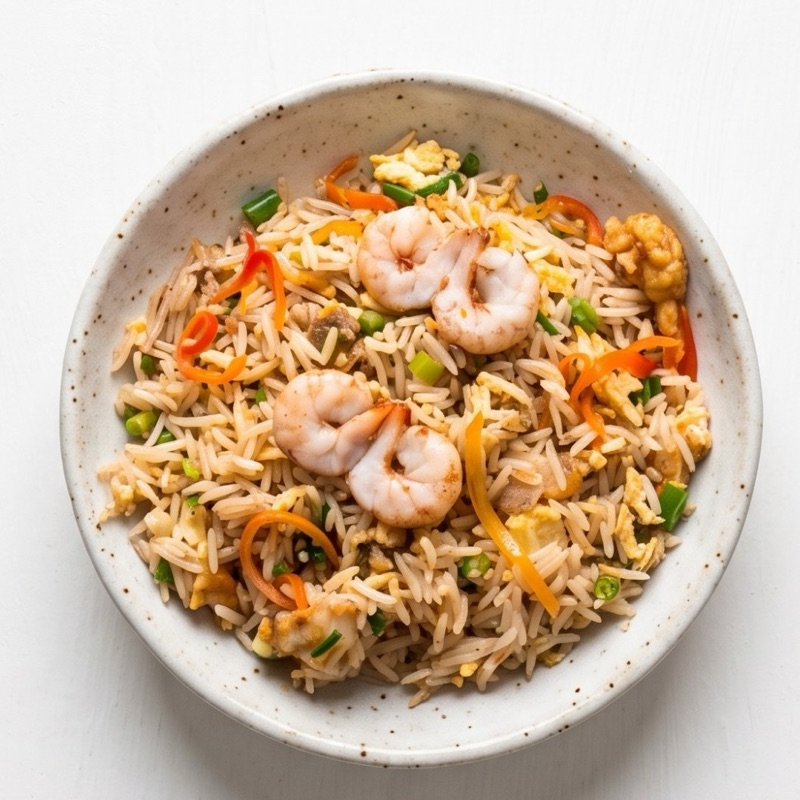
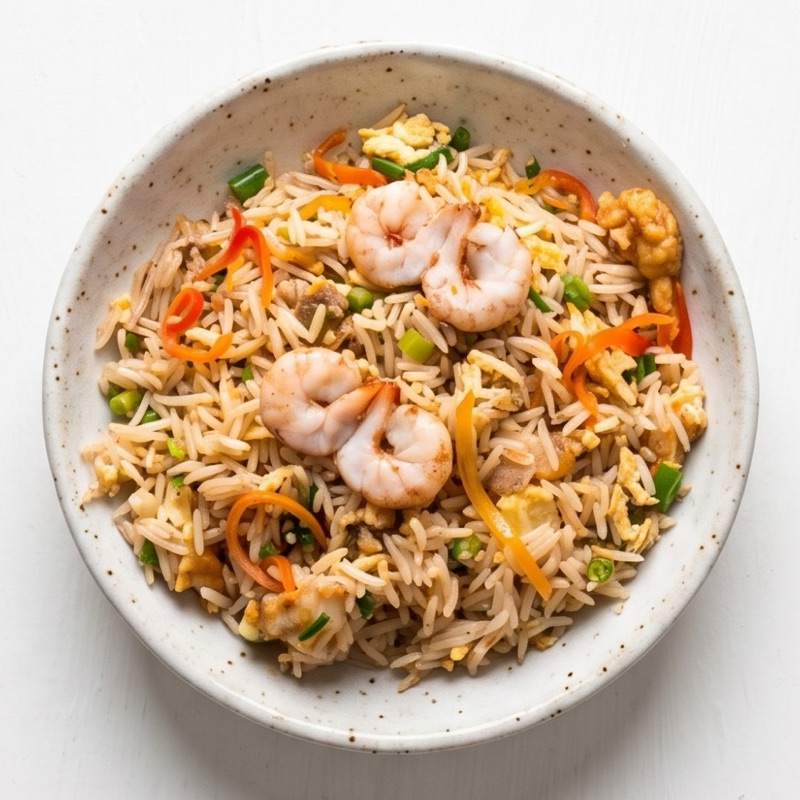
fix: plato centrado en la celda central (solo gira con el scroll)

diff --git a/index.html b/index.html
@@ -36,7 +36,7 @@
   <link rel="preconnect" href="https://unpkg.com" crossorigin>
   <link rel="preload" href="assets/fonts/GoogleSansFlex_24pt-Light-latin.woff2" as="font" type="font/woff2" crossorigin>
   <link rel="preload" href="assets/img/platter.jpg" as="image" fetchpriority="high">
-  <link rel="stylesheet" href="styles.css?v=4">
+  <link rel="stylesheet" href="styles.css?v=7">
   <script type="application/ld+json">
 {
  "@context": "https://schema.org",
@@ -1831,7 +1831,7 @@
 
     <!-- 5 · Featured kitchens (3 × 3 grid, travelling plate behind) -->
     <section class="featured" id="featured" aria-labelledby="featured-heading">
-      <div class="featured__plate" aria-hidden="true"><svg class="featured__ring" viewBox="0 0 200 200"><g fill="none" stroke="currentColor" stroke-width="0.6"><circle cx="100" cy="100" r="99"/><circle cx="100" cy="100" r="80"/><polygon points="199.0,100.0 173.9,130.6 170.0,170.0 130.6,173.9 100.0,199.0 69.4,173.9 30.0,170.0 26.1,130.6 1.0,100.0 26.1,69.4 30.0,30.0 69.4,26.1 100.0,1.0 130.6,26.1 170.0,30.0 173.9,69.4"/><polygon points="197.1,119.3 166.5,144.4 155.0,182.3 115.6,178.5 80.7,197.1 55.6,166.5 17.7,155.0 21.5,115.6 2.9,80.7 33.5,55.6 45.0,17.7 84.4,21.5 119.3,2.9 144.4,33.5 182.3,45.0 178.5,84.4"/></g></svg><div class="featured__dish"><img src="assets/img/fried-rice.jpg" alt="" width="800" height="800" loading="lazy"></div></div>
+      <div class="featured__plate" aria-hidden="true"><svg class="featured__ring" viewBox="0 0 200 200"><g fill="none" stroke="currentColor" stroke-width="0.6"><circle cx="100" cy="100" r="99"/><circle cx="100" cy="100" r="80"/><polygon points="199.0,100.0 173.9,130.6 170.0,170.0 130.6,173.9 100.0,199.0 69.4,173.9 30.0,170.0 26.1,130.6 1.0,100.0 26.1,69.4 30.0,30.0 69.4,26.1 100.0,1.0 130.6,26.1 170.0,30.0 173.9,69.4"/><polygon points="197.1,119.3 166.5,144.4 155.0,182.3 115.6,178.5 80.7,197.1 55.6,166.5 17.7,155.0 21.5,115.6 2.9,80.7 33.5,55.6 45.0,17.7 84.4,21.5 119.3,2.9 144.4,33.5 182.3,45.0 178.5,84.4"/></g></svg><div class="featured__dish"><img src="assets/img/fried-rice.jpg?v=7" alt="" width="800" height="800" loading="lazy"></div></div>
       <h2 class="eyebrow featured__eyebrow reveal-up" id="featured-heading">Featured delicacies</h2>
       <p class="featured__intro reveal-up" style="--d: 1">For the love of delicious food. Six kitchens’ worth of favourites under one roof — from the clay oven to the wok, with something for every appetite.</p>
       <div class="featured__grid">
@@ -2057,6 +2057,6 @@
   <script src="https://cdnjs.cloudflare.com/ajax/libs/gsap/3.12.5/gsap.min.js" defer></script>
   <script src="https://cdnjs.cloudflare.com/ajax/libs/gsap/3.12.5/ScrollTrigger.min.js" defer></script>
   <script src="https://unpkg.com/lenis@1.1.13/dist/lenis.min.js" defer></script>
-  <script src="main.js?v=4" defer></script>
+  <script src="main.js?v=7" defer></script>
 </body>
 </html>

diff --git a/main.js b/main.js
@@ -102,6 +102,18 @@
     document.fonts && document.fonts.ready.then(() => moveTo(active(), false));
   }
 
+  /* ---------- Featured plate: centred on the middle grid cell ---------- */
+  const centrePlate = () => {
+    const plate = document.querySelector(".featured__plate");
+    const grid = document.querySelector(".featured__grid");
+    if (!plate || !grid) return;
+    plate.style.top = `${grid.offsetTop + grid.offsetHeight / 2 - plate.offsetHeight / 2}px`;
+  };
+  centrePlate();
+  if (window.ResizeObserver) new ResizeObserver(centrePlate).observe(document.querySelector(".featured") || document.body);
+  window.addEventListener("load", centrePlate);
+  document.fonts && document.fonts.ready.then(centrePlate);
+
   /* ---------- Reveals on scroll ---------- */
   const io = new IntersectionObserver((entries) => {
     entries.forEach((e) => {
@@ -212,16 +224,12 @@
       });
     }
 
-    // Plate travels behind the glass grid and turns with the page.
+    // Plate sits in the centre cell of the glass grid and turns with the page.
     const plate = document.querySelector(".featured__plate");
     if (plate) {
-      gsap.fromTo(plate, { y: () => -plate.offsetHeight * 0.6, rotate: -40 }, {
-        y: () => document.querySelector(".featured").offsetHeight - plate.offsetHeight * 0.4,
-        rotate: 160, ease: "none",
-        scrollTrigger: { trigger: ".featured", start: "top bottom", end: "bottom top", scrub: true, invalidateOnRefresh: true },
-      });
+      gsap.fromTo(plate, { rotate: -60 }, { rotate: 120, ease: "none", scrollTrigger: { trigger: ".featured", start: "top bottom", end: "bottom top", scrub: true } });
       const ring = plate.querySelector(".featured__ring");
-      if (ring) gsap.fromTo(ring, { rotate: 0 }, { rotate: -260, ease: "none", scrollTrigger: { trigger: ".featured", start: "top bottom", end: "bottom top", scrub: true } });
+      if (ring) gsap.fromTo(ring, { rotate: 0 }, { rotate: -240, ease: "none", scrollTrigger: { trigger: ".featured", start: "top bottom", end: "bottom top", scrub: true } });
     }
   };
 
